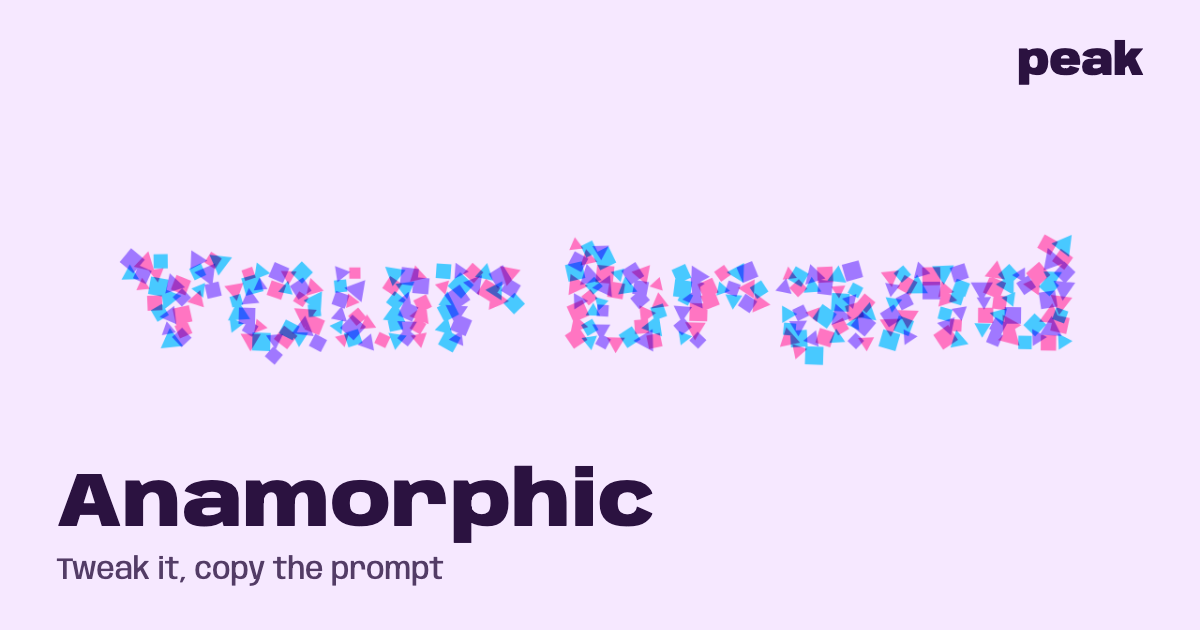
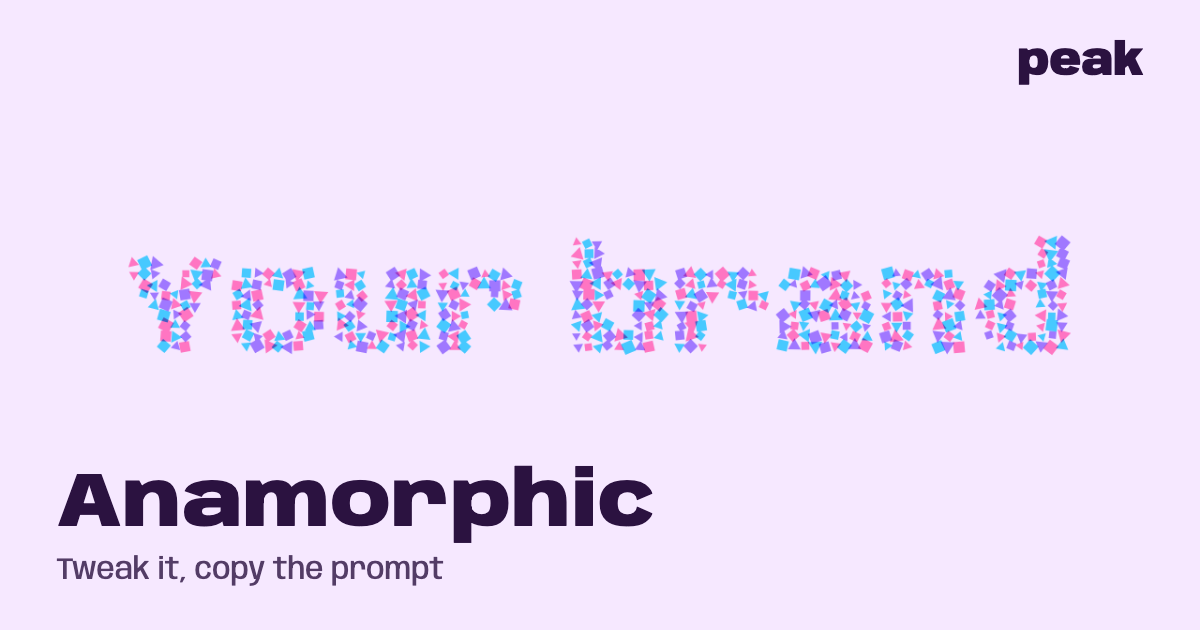
anamorphic: crisp letters at the sweet spot (shards sized by the sampling gap)

Changed region(s): [[0.0925, 0.3619, 0.8942, 0.573]]

diff --git a/src/scenes/anamorphic/params.ts b/src/scenes/anamorphic/params.ts
@@ -23,7 +23,7 @@ export const params: Param[] = [
     default: 'Your brand',
     key: true,
     phrase: (v: string, all) =>
-      `The name is "${v}". Once the Anybody font has loaded, draw it on a hidden canvas the size of the stage: weight ${all.weight}, centered, font size = height × ${all.textHeight}, shrunk if needed so it is at most ${pct(Number(all.fitWidth))} of the width. Sample its pixels on a square grid (row by row from the top-left) and keep points whose alpha is above 128; start the grid 3px apart and widen it 1px at a time until there are no more points than shards. Move each point by a random amount of up to a quarter of the grid gap in x and y. Each point is where one shard appears from the sweet spot.`,
+      `The name is "${v}". Once the Anybody font has loaded, draw it on a hidden canvas the size of the stage: weight ${all.weight}, centered, font size = height × ${all.textHeight}, shrunk if needed so it is at most ${pct(Number(all.fitWidth))} of the width. Sample its pixels on a square grid (row by row from the top-left) and keep points whose alpha is above 128; start the grid 3px apart and widen it 1px at a time until there are no more points than shards. Move each point by a random amount of up to an eighth of the grid gap in x and y. Each point is where one shard appears from the sweet spot.`,
   },
   {
     kind: 'slider',
@@ -32,9 +32,9 @@ export const params: Param[] = [
     help: 'How many shards float. The name needs enough to read.',
     group: 'Look',
     min: 40,
-    max: 600,
+    max: 900,
     step: 10,
-    default: 320,
+    default: 560,
     key: true,
     phrase: (v: number, all) =>
       `Use at most ${v} shards (${all.shardsSmall} on screens under 700px wide).`,
@@ -52,7 +52,7 @@ export const params: Param[] = [
     unit: 'px',
     key: true,
     phrase: (v: number, all) =>
-      `Each shard is ${SHAPES[String(all.shape)]}, lying flat in a plane facing the sweet-spot camera: its corners sit at evenly spaced angles around its point, starting from a random turn, at a random distance between 60% and 100% of ${v}px as seen from the sweet spot (in 3D, multiply those offsets by (F + z) ÷ F, the same as the point). Project every corner through the camera and fill the shape.`,
+      `Each shard is ${SHAPES[String(all.shape)]}, lying flat in a plane facing the sweet-spot camera: its corners sit at evenly spaced angles around its point, starting from a random turn, at a random distance between 60% and 100% of the smaller of ${v}px and 0.8 × the grid gap, as seen from the sweet spot (in 3D, multiply those offsets by (F + z) ÷ F, the same as the point). Project every corner through the camera and fill the shape.`,
   },
   {
     kind: 'select',
@@ -183,7 +183,7 @@ export const params: Param[] = [
     min: 20,
     max: 400,
     step: 10,
-    default: 160,
+    default: 280,
     phrase: (v: number) => `${v} shards.`,
     phraseIn: 'shards',
   },

diff --git a/src/scenes/anamorphic/constants.ts b/src/scenes/anamorphic/constants.ts
@@ -7,6 +7,10 @@ export const FIXED = {
   MAX_GAP: 80,
   /** A pixel counts as part of the letters above this alpha. */
   ALPHA_CUTOFF: 128,
+  /** Points move by up to half this share of the grid gap, so shards look scattered. */
+  JITTER: 0.25,
+  /** A shard reaches at most this share of the grid gap from its point. */
+  GAP_FIT: 0.8,
   /** Focal length of the camera as a share of the shorter screen side, at perspective 1. */
   FOCAL: 1.2,
   /** Shards never come closer to the camera than this share of the focal length. */
@@ -42,6 +46,9 @@ export const FIXED_REASONS: Record<keyof typeof FIXED, string> = {
   START_GAP: 'Where the sampling search starts; the shard count decides the real spacing.',
   MAX_GAP: 'Ends the sampling search for very long names; never reached at normal sizes.',
   ALPHA_CUTOFF: 'Half opacity: the edge of the anti-aliased letters.',
+  JITTER: 'A little scatter without blurring the letter edges (was 0.5; letters read soft).',
+  GAP_FIT:
+    'Shards just overlap their neighbors without spilling past thin strokes (letters read soft when shards were about three gaps wide).',
   FOCAL: 'A natural lens at perspective 1; the Perspective slider scales it.',
   NEAR_LIMIT: 'Keeps every shard in front of the camera, so none flips or blows up.',
   PITCH_SHARE: 'Screens are wider than tall, so the vertical orbit is gentler.',

diff --git a/src/scenes/anamorphic/index.ts b/src/scenes/anamorphic/index.ts
@@ -90,10 +90,13 @@ function create(host: HTMLElement, initial: Params, ctx: SceneContext): SceneIns
     phase = new Float32Array(count);
     corners = new Uint8Array(count);
     for (let i = 0; i < count; i++) {
-      sx[i] = pts[2 * i]! - c.w * 0.5 + (rand() - 0.5) * gap * 0.5;
-      sy[i] = pts[2 * i + 1]! - c.h * 0.5 + (rand() - 0.5) * gap * 0.5;
+      sx[i] = pts[2 * i]! - c.w * 0.5 + (rand() - 0.5) * gap * FIXED.JITTER;
+      sy[i] = pts[2 * i + 1]! - c.h * 0.5 + (rand() - 0.5) * gap * FIXED.JITTER;
       sz[i] = Math.max(-FIXED.NEAR_LIMIT * focal, (rand() * 2 - 1) * n('depth') * side);
-      size[i] = n('shardSize') * (FIXED.SHARD_MIN + rand() * (1 - FIXED.SHARD_MIN));
+      // Shards never reach much past their grid cell, so the letter edges stay crisp.
+      size[i] =
+        Math.min(n('shardSize'), gap * FIXED.GAP_FIT) *
+        (FIXED.SHARD_MIN + rand() * (1 - FIXED.SHARD_MIN));
       turn[i] = rand() * SHARED.TAU;
       phase[i] = rand() * SHARED.TAU;
       const shape = String(p.shape);

diff --git a/docs/HANDOFF.md b/docs/HANDOFF.md
@@ -4,7 +4,7 @@ Everything is committed and pushed to `main`; pushing deploys to Vercel (https:/
 
 ## Exact step
 
-**Backlog (2026-10-21):** the nine scenes from chunks 1 to 3 are **live**: `pendulum`, `anamorphic`, `domino`, `coilstairs`, `clockwork`, `signalpaths`, `platformarrival`, `doorwave`, `resonanceplate` are in the gallery (68 scenes with the six after them), the Tour (65) and the sitemap, each with a drop on /drops and in RSS. New gallery chips: Tech & AI, Travel, Real estate, Wellness, Gaming, Finance, Kids, Nonprofits. **New way of working (owner):** one session builds the remaining ANIMATED scenes one at a time, live on build, without waiting between scenes; rules, test cadence and stop rules in DECISIONS (2026-10-21, "Scenes go live on build") and PLAN. Log: `docs/BUILD_LOG.md`. `infinitezoom` (89, Spicy), `torchmap` (84, ⚠), `doubling` (85), `peekaboo` (86), `gatherround` (87) and `epicycles` (67) are live too; the last full suite ran after `epicycles` (next due after three more scenes). `tokenstream` (88) and `clayframes` (68) are live too (a fresh session, 2026-10-21). **Next:** `stringart`, then the full suite. Waiting on the owner: prompt tests for the Spicy `resonanceplate`, `clockwork` and `infinitezoom` (about 0.1 to 0.15M each); `anamorphic`'s letters are still a little soft at the default shard size.
+**Backlog (2026-10-21):** the nine scenes from chunks 1 to 3 are **live**: `pendulum`, `anamorphic`, `domino`, `coilstairs`, `clockwork`, `signalpaths`, `platformarrival`, `doorwave`, `resonanceplate` are in the gallery (68 scenes with the six after them), the Tour (65) and the sitemap, each with a drop on /drops and in RSS. New gallery chips: Tech & AI, Travel, Real estate, Wellness, Gaming, Finance, Kids, Nonprofits. **New way of working (owner):** one session builds the remaining ANIMATED scenes one at a time, live on build, without waiting between scenes; rules, test cadence and stop rules in DECISIONS (2026-10-21, "Scenes go live on build") and PLAN. Log: `docs/BUILD_LOG.md`. `infinitezoom` (89, Spicy), `torchmap` (84, ⚠), `doubling` (85), `peekaboo` (86), `gatherround` (87) and `epicycles` (67) are live too; the last full suite ran after `epicycles` (next due after three more scenes). `tokenstream` (88), `clayframes` (68) and `stringart` (69) are live too (a fresh session, 2026-10-21), so **every ANIMATED backlog scene is live** (71 in the gallery, 68 in the Tour). Full suite after `stringart`: 919 passed; `moire` desktop prompt parity failed under load and passed alone (see "Flaky tests to investigate"). `anamorphic`'s letters are now crisp at the sweet spot (before/after in `docs/anamorphic/`). **Next:** the remaining backlog is REALISTIC scenes, which wait for the owner's reference clips, and Batch 3, which waits for the owner's OK. Waiting on the owner: prompt tests for the Spicy `resonanceplate`, `clockwork` and `infinitezoom` (about 0.1 to 0.15M each).
 
 Earlier state:
 

diff --git a/docs/DECISIONS.md b/docs/DECISIONS.md
@@ -586,3 +586,8 @@ Only the pilot up to the verdict is asked for now. If a pilot scene still looks 
 - **Route:** nails are spaced evenly along the traced outlines (share by length, at least 3 per loop). The outlines are grouped into letters (`groupHoles` in `src/kits/text.ts`: a loop inside a bigger loop is its hole; also used by `clayframes`, so it moved to the kit). Each letter gets threads in proportion to its area and its own greedy route over its own nails: of "Route search depth" random nails, take the line whose 3px cells score best (inside cells add 1 ÷ (1 + times crossed), outside cells cost 2.5). The hop between letters is not drawn. **Tuning (one round):** a single route over all nails got stuck in "brand" and never reached "Your", because every line across the gap scored below zero.
 - **Drawing:** threads at opacity 0.45 in batches of 64 paths, so crossings between batches darken; scroll or a sideways drag lays more thread or takes it back; idle draws at "Draw speed" × 120 a second, rests, then unwinds 4 times as fast.
 - **Pluck:** when the pointer's step crosses a thread (a segment-crossing test), the thread's bow speed jumps toward that side; a spring (tension × 0.08) with damping brings it back, drawn as a quadratic curve. The spec's Advanced items: nail size, route search depth, damping, plus phone counts (120 nails, 700 threads). Tokens: meter 66% → 71% (approx).
+
+## 2026-10-21: `anamorphic` letters sharpened
+- **Cause:** a shard's size is the distance from its point to its corners, so a 14px shard is about 28px across, roughly three sampling gaps; shards spilled well past the thin letter strokes and the name read as a blob.
+- **Fix:** each shard's reach is now the smaller of "Shard size" and 0.8 × the sampling gap (`GAP_FIT`), points scatter by up to an eighth of the gap (was a quarter), and the default count is 560 (max 900; phones 280), so the gap is smaller and the letters fill in. The shard size slider still makes shards smaller, and larger only on sparse settings.
+- **Proof:** `docs/anamorphic/before-after-desktop.png` and `before-after-phone.png` (the reduced-motion still frame, which is the exact sweet spot). Not prompt-tested (Medium), so no parity images change.

diff --git a/docs/BUILD_LOG.md b/docs/BUILD_LOG.md
@@ -30,3 +30,5 @@ One line per scene built from the backlog: scene, live link, tokens used, proble
 **Summary after 15 scenes (2026-10-21):** `peekaboo`, `gatherround` and `epicycles` used about 4%, 3% and 4% of the 5-hour meter (11% for the three, about 3.7% per scene, including docs, live checks and one full suite), the same as the previous three. Six scenes built one at a time so far: 22% of the meter, about 3.7% per scene. In tokens this is roughly 30k to 40k of new work per scene, within the 60k to 100k estimate (Spicy 110k to 150k). This session's context is at 47%.
 
 **Summary after 18 scenes (2026-10-21, fresh session):** `tokenstream`, `clayframes` and `stringart` used about 6%, 3% and 5% of the 5-hour meter (14% for the three, about 4.7% per scene, including reading the docs and templates once and one round of fixes each). The full suite and `npm run check` ran after `stringart`. In tokens this is roughly 30k to 50k of new work per scene, within the 60k to 100k estimate. All ANIMATED backlog scenes are now live.
+
+**`anamorphic` fix (2026-10-21):** shards capped at 0.8 × the sampling gap and 560 by default; about 2% of the meter.
